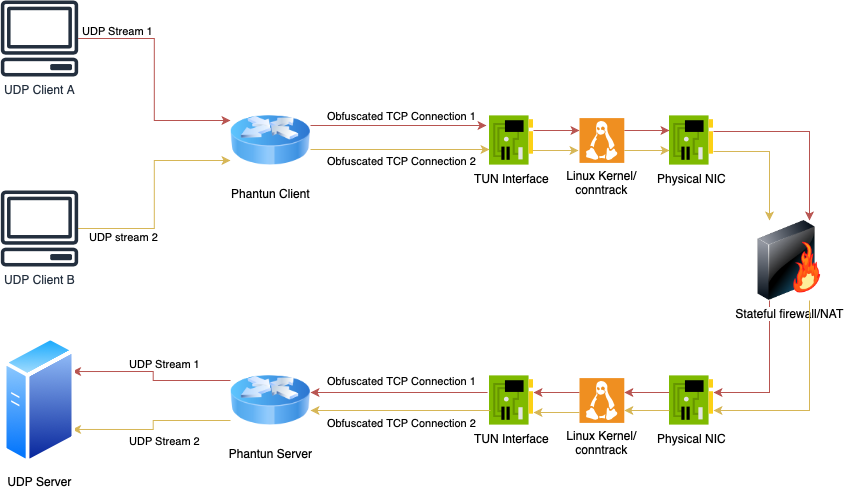
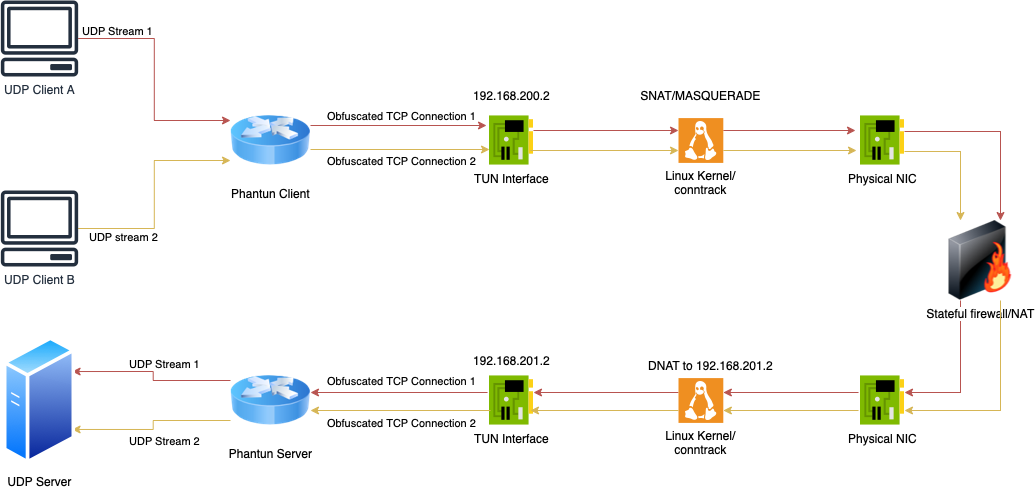
docs(images) updated the flow diagram

diff --git a/README.md b/README.md
@@ -71,7 +71,7 @@ NIC address and Phantun's TUN interface address.
 You may customize the name of Tun interface created by Phantun and the assigned addresses. Please
 run the executable with `-h` options to see how to change them.
 
-Another way to help understand this network topology:
+Another way to help understand this network topology (please see the diagram above for an illustration of this topology):
 
 Phantun Client is like a machine with private IP address (`192.168.200.2`) behind a router.
 In order for it to reach the Internet, you will need to SNAT the private IP address before it's traffic
